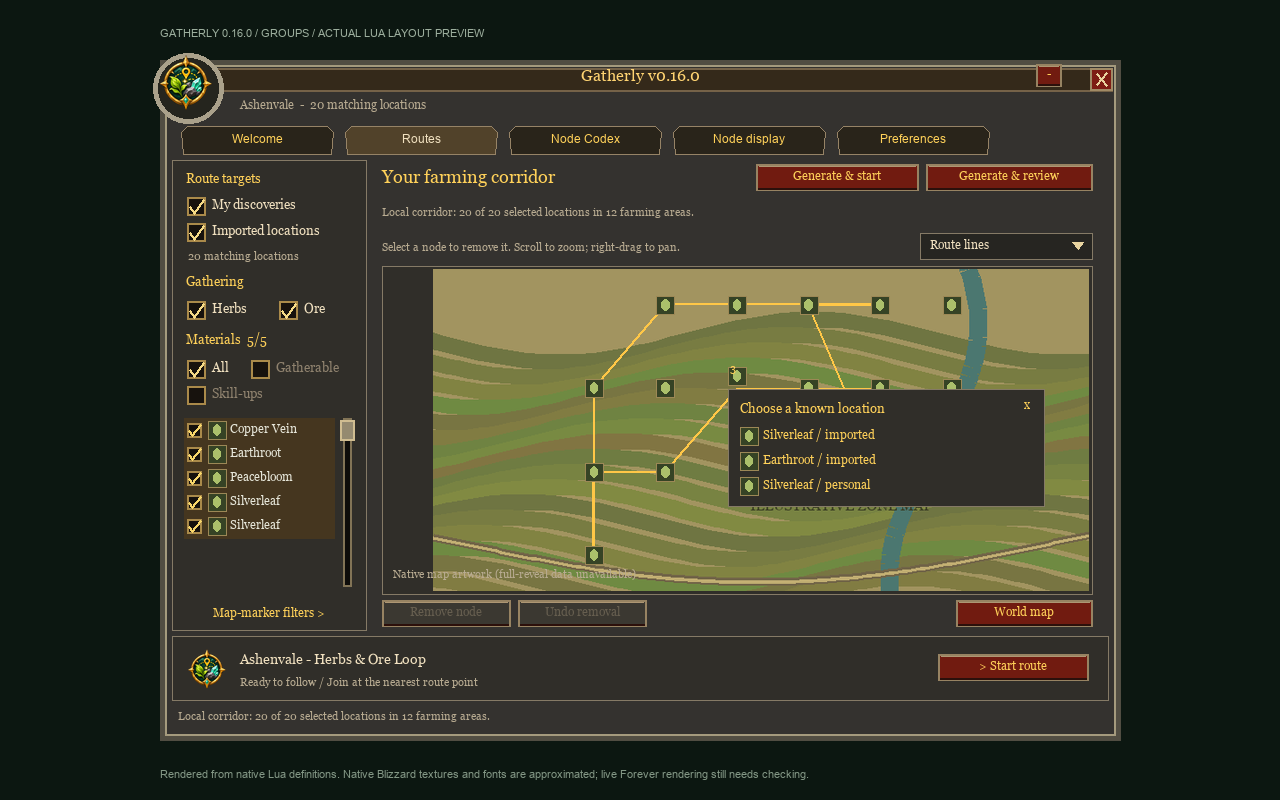
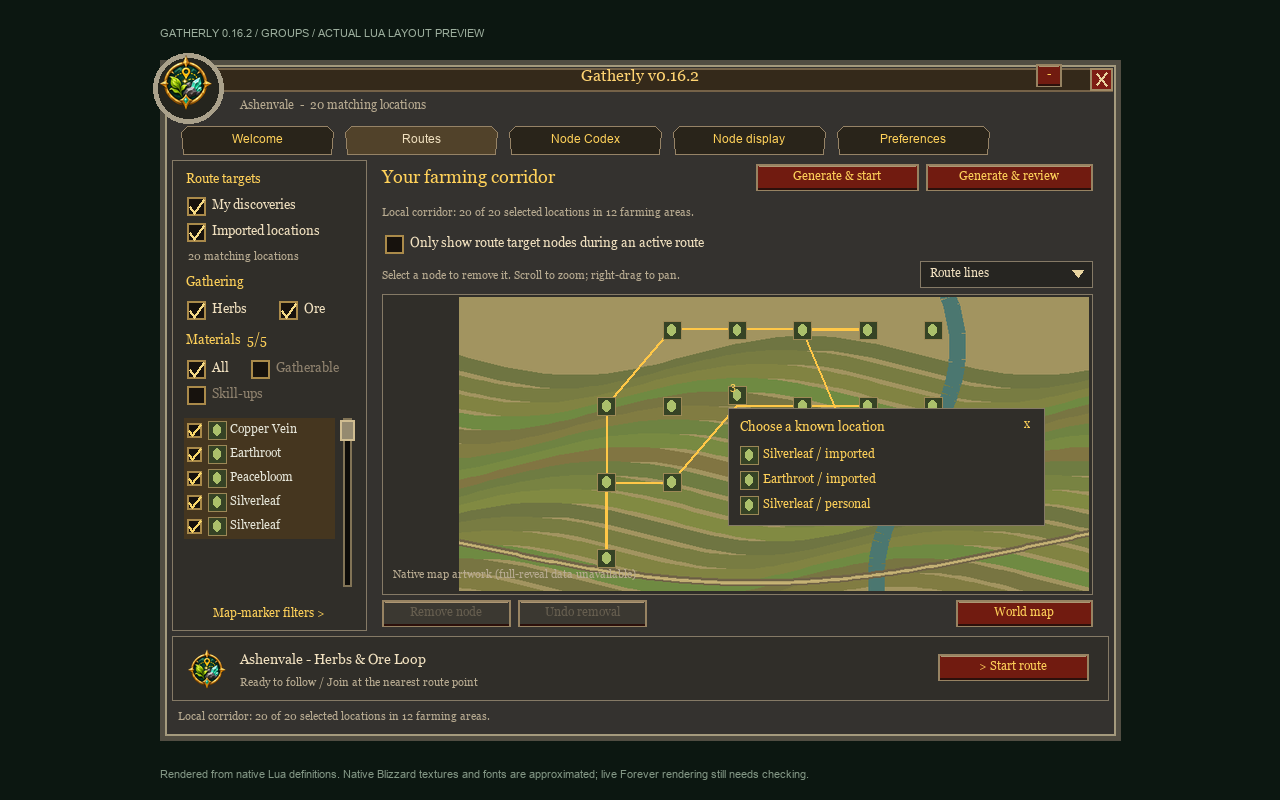
Move active-route marker option to Routes with clearer wording

Changed region(s): [[0.2812, 0.2812, 0.875, 0.75]]

diff --git a/tools/render_ui_preview.py b/tools/render_ui_preview.py
@@ -35,7 +35,7 @@ CreateFrame=function(...)
  return f
 end
 WorldMapFrame:Hide()
-A={version='0.16.1'};for _,m in ipairs({'Store','Client','Resources','MarkerGroups','SkillTooltip','Selection','Atlas','ResourceLibrary','DifficultyProbe','Editor','Recorder','Corridor','Planner','FarmingSession','Follower','Heatmap','MiniHeat','MinimapPins','Map','Skin','PanelWindow','ScrollPanel','VirtualList','Dropdown','Data/MapReveal','MapOverlays','MapArt','GroupPicker','RouteSketch','RouteView','ResourceLibraryView','UIActions','FilterSidebar','WelcomeView','MarkerFiltersView','NodeDisplayView','PreferencesView','UI','Arrow','MinimapButton'}) do assert(loadfile(m..'.lua'))('Gatherly',A) end
+A={version='0.16.2'};for _,m in ipairs({'Store','Client','Resources','MarkerGroups','SkillTooltip','Selection','Atlas','ResourceLibrary','DifficultyProbe','Editor','Recorder','Corridor','Planner','FarmingSession','Follower','Heatmap','MiniHeat','MinimapPins','Map','Skin','PanelWindow','ScrollPanel','VirtualList','Dropdown','Data/MapReveal','MapOverlays','MapArt','GroupPicker','RouteSketch','RouteView','ResourceLibraryView','UIActions','FilterSidebar','WelcomeView','MarkerFiltersView','NodeDisplayView','PreferencesView','UI','Arrow','MinimapButton'}) do assert(loadfile(m..'.lua'))('Gatherly',A) end
 A.db=A.Store.Open();A.Client.Position=function() return {mapID=1,x=.2,y=.4} end
 A.Client.Size=function() return 1000,600 end
 A.Client.Distance=function(a,b) if not a or not b or a.mapID~=b.mapID then return end;return math.sqrt(((a.x-b.x)*1000)^2+((a.y-b.y)*600)^2) end
@@ -156,7 +156,7 @@ def render(scene):
         resolving.remove(k);boxes[k]=r;return r
     def visible(o):return o['shown'] is not False and (o['parent'] is None or ident(o['parent'])==0 or visible(o['parent']))
     im=Image.new('RGBA',(screen_w,screen_h),'#0c1711');d=ImageDraw.Draw(im)
-    d.text((160,27),'GATHERLY 0.16.1 / '+scene.upper()+' / ACTUAL LUA LAYOUT PREVIEW',font=ImageFont.truetype('C:/Windows/Fonts/arial.ttf',11),fill='#9cae9d')
+    d.text((160,27),'GATHERLY 0.16.2 / '+scene.upper()+' / ACTUAL LUA LAYOUT PREVIEW',font=ImageFont.truetype('C:/Windows/Fonts/arial.ttf',11),fill='#9cae9d')
     fonts={}; text_report=[]
     def font(o):
         size=int(o['fontSize'] or 12);family='georgia.ttf' if 'FRIZ' in (o['fontPath'] or '') else 'arial.ttf';key=(family,size)

diff --git a/tests/package.py b/tests/package.py
@@ -1,7 +1,7 @@
 from pathlib import Path
 import zipfile
 root = Path(__file__).resolve().parents[1]
-path = root / 'dist/Gatherly-0.16.1.zip'
+path = root / 'dist/Gatherly-0.16.2.zip'
 assert path.is_file(), 'Installable ZIP missing'
 with zipfile.ZipFile(path) as z:
     names = z.namelist()
@@ -11,7 +11,7 @@ with zipfile.ZipFile(path) as z:
     metadata = dict(line[3:].split(': ', 1) for line in toc.splitlines() if line.startswith('## '))
     assert metadata['Title'] == 'Gatherly'
     assert metadata['SavedVariables'] == 'GatherlyDB'
-    assert metadata['Version'] == '0.16.1'
+    assert metadata['Version'] == '0.16.2'
     assert metadata['X-License'] == 'MIT'
     assert metadata['IconTexture'] == r'Interface\AddOns\Gatherly\Media\Icon'
     for texture in ['Icon', 'LogoSheet', 'EmptyEmblem', 'NodeRing', 'NodeSquare', 'GuideArrow', 'HeatBlob', 'MinimapMasks']:

diff --git a/tools/package.py b/tools/package.py
@@ -14,7 +14,7 @@ for name in files:
     assert (root / name).is_file(), f'Missing package file: {name}'
 dist = root / 'dist'
 dist.mkdir(exist_ok=True)
-path = dist / 'Gatherly-0.16.1.zip'
+path = dist / 'Gatherly-0.16.2.zip'
 with zipfile.ZipFile(path, 'w', zipfile.ZIP_DEFLATED) as z:
     for name in files:
         z.write(root / name, 'Gatherly/' + name)

diff --git a/README.md b/README.md
@@ -14,7 +14,7 @@ where resources grow, build farming routes and follow a clear in-game guide arro
 ![Tests](https://github.com/Red463/Gatherly/actions/workflows/ci.yml/badge.svg)
 ![MIT license](https://img.shields.io/badge/license-MIT-green.svg)
 
-**Current version:** 0.16.1 ? **Client interface:** 16001 ? **Command:** `/gatherly`
+**Current version:** 0.16.2 ? **Client interface:** 16001 ? **Command:** `/gatherly`
 
 ## What it does
 
@@ -47,7 +47,7 @@ where resources grow, build farming routes and follow a clear in-game guide arro
 Gatherly uses the **Gatherly** folder, **Gatherly.lua** saved-data file and
 **GatherlyDB** global. The only slash command is **/gatherly**.
 
-1. Download `Gatherly-0.16.1.zip` from
+1. Download `Gatherly-0.16.2.zip` from
    [Releases](https://github.com/Red463/Gatherly/releases/latest).
    Choose the addon ZIP asset rather than GitHub's automatic **Source code** ZIP.
 2. Close WoW and extract the `Gatherly` folder into your Forever
@@ -261,13 +261,14 @@ Existing shared preferences are copied into both sets on upgrade; explicit empty
 selections are retained. Importing canonical GatherMate IDs preserves personal-name
 material selections, independent exclusions and active guidance snapshots.
 
-Optionally enable **Use route selections while following**. Both maps then use the
+In **Routes**, optionally enable **Only show route target nodes during an active route**.
+Both maps then use the
 active guidance's saved filter snapshot, including while paused or suspended.
 Changing the sidebar mid-route does not rewrite that snapshot. Stop/completion
 restores everyday markers without overwriting their preferences. The Visible nodes
 page identifies when the override is active. It is off by default.
 
-![Everyday map-marker choices and the optional temporary route override](docs/images/marker-filters.png)
+![Everyday map-marker choices, with the active-route option located separately in Routes](docs/images/marker-filters.png)
 
 In either set, unticking every source or gathering type gives no matching nodes;
 this does not reset your choices. Marker filters do not hide the route overlay,

diff --git a/CHANGELOG.md b/CHANGELOG.md
@@ -1,5 +1,10 @@
 # Changelog
 
+## 0.16.2
+
+- Move the active-route map-marker checkbox from Node display to Routes and rename it to “Only show route target nodes during an active route.”
+- Add a tooltip explaining both-map filtering, saved route selections and restoration of normal markers after Stop/completion. Preserve the saved setting and existing behavior.
+
 ## 0.16.1
 
 - Remove the artificial 40-row/0.1-second import limit. Imports now use their own per-frame coroutine with a soft 4ms budget and a work cap for missing or frozen timers.
